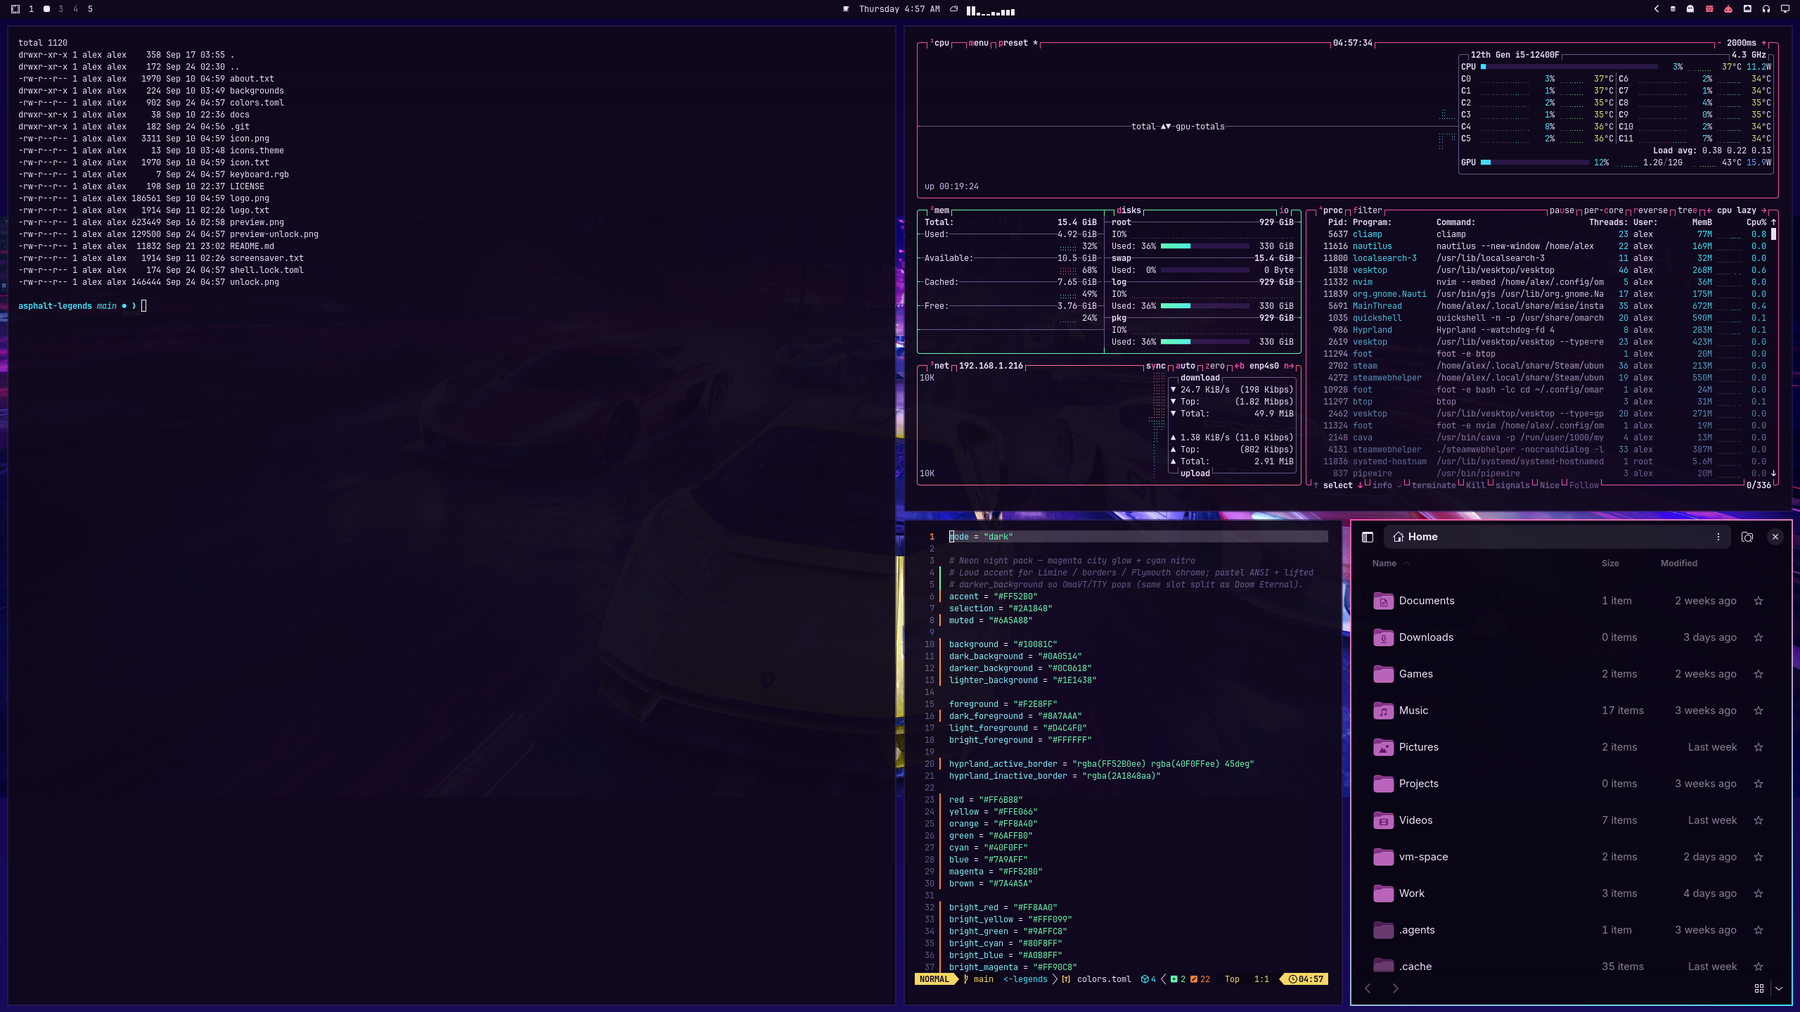
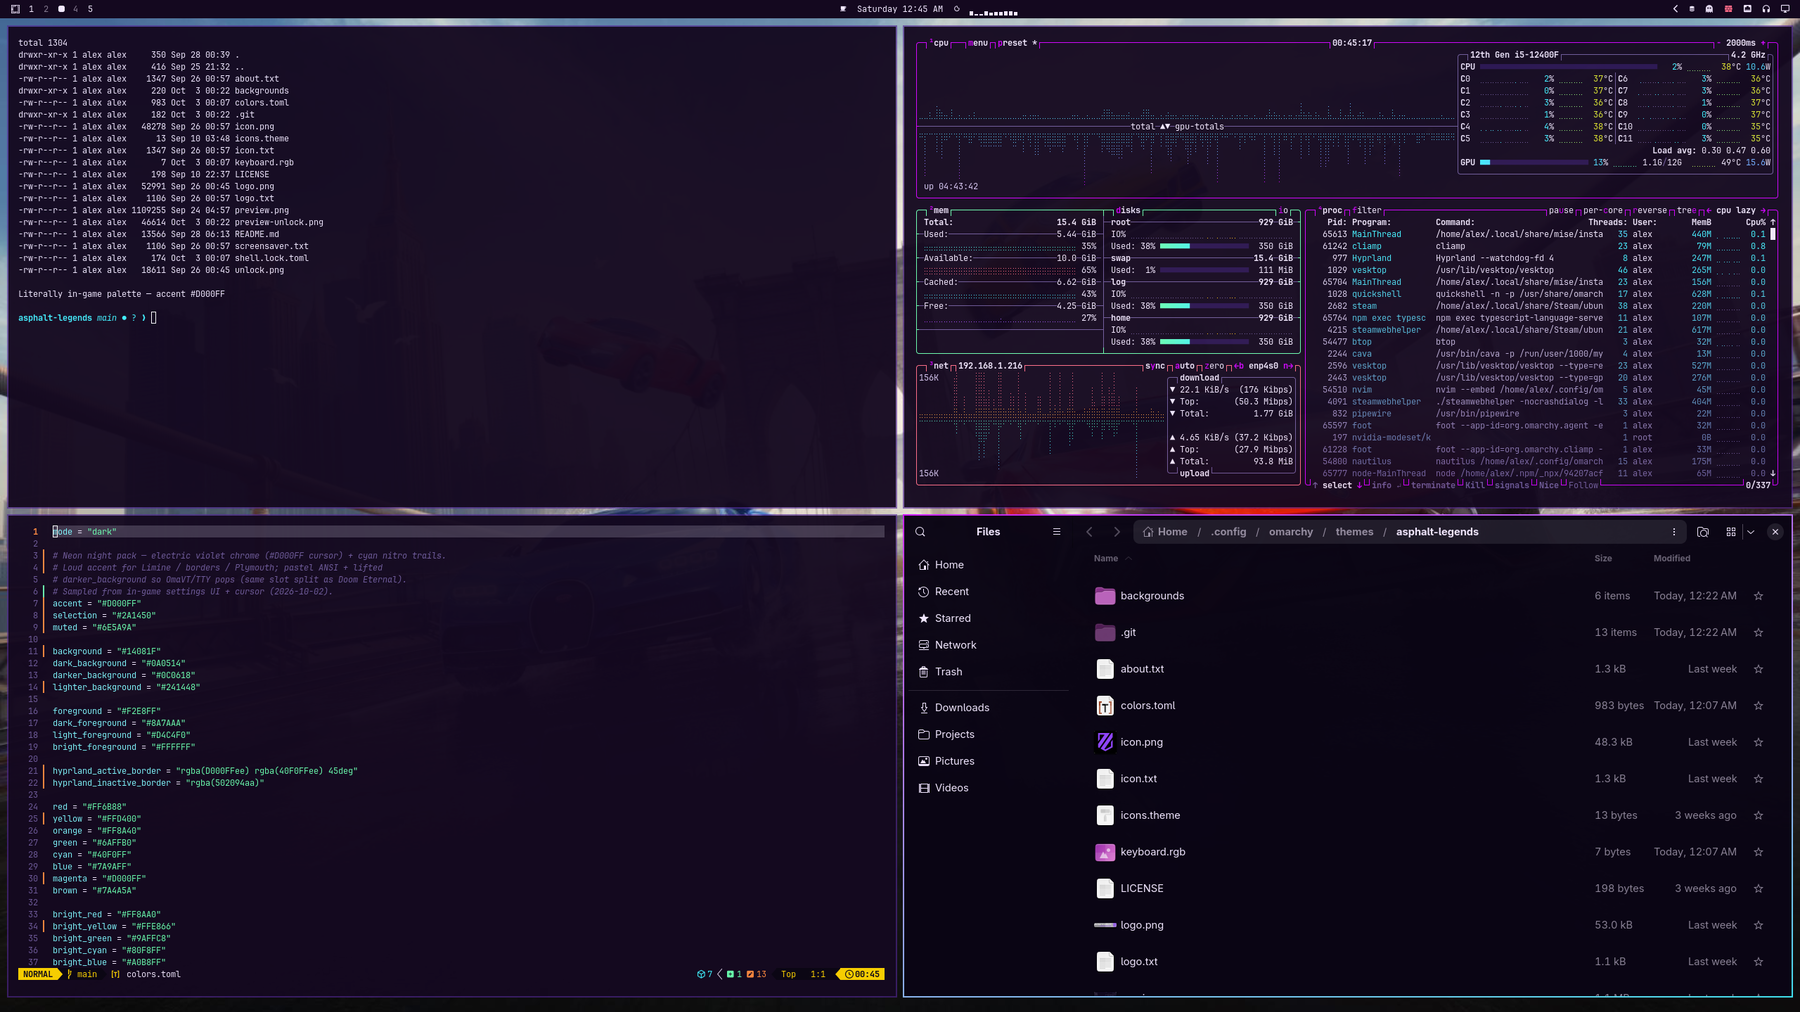
Refine Asphalt palette from in-game UI; swap Brooklyn wall for loading key art.
Sample cursor-literal #D000FF for borders/keyboard/ANSI magenta; use brand
#9246FF as toolkit accent so Qt/GTK fills stay readable. Document the split.

diff --git a/README.md b/README.md
@@ -2,15 +2,18 @@
 
 Remember the races? The hyprdrive? TouchDrive, even? Maybe not so much the
 microtransactions. What if your desktop felt like you’re quirk-screwing and
-nitro-boosting through that neon-drenched night pack — magenta city glow, cyan
-streaks, purple-black asphalt under the wheels — instead of another flat dark
-mode that could belong to anyone? Hyprland’s active border runs the same
-dual-accent trick as HEV, Galuga, CS, Cyber Shadow, Doom 2016, Eternal, Caged, KI, Rising, Stanley, SF6, T2D & USFIV:
-**magenta → cyan** at 45°.
+nitro-boosting through that neon-drenched night pack — in-game violet chrome
+(`#D000FF` cursor on borders / keyboard, brand `#9246FF` on toolkit accents),
+cyan nitro streaks, purple-black asphalt under the wheels — instead of another
+flat dark mode that could belong to anyone? Hyprland’s active border runs the
+same dual-accent trick as HEV, Galuga, CS, Cyber Shadow, Doom 2016, Eternal,
+Caged, KI, Rising, Stanley, SF6, T2D & USFIV: **violet → cyan** at 45°.
 
 Neon night-pack theme for [Omarchy](https://omarchy.org/). Inspired by the look
 of *Asphalt Legends* — **not affiliated with Gameloft** (see
-[Credits](#credits--legal-ish) below).
+[Credits](#credits--legal-ish) below). See
+[Closer than we started](#closer-than-we-started) for how the hexes were
+pulled and why `accent` is not a 1:1 cursor paste.
 
 <p align="center">
   <img src="logo.png" alt="Asphalt Legends wordmark used for unlock / README" width="520" />
@@ -232,12 +235,47 @@ Browse more on the [Omarchy Plugins](https://plugins.omarchy.org/) site.
 and similar “own paint engine / remote CSS” surfaces are out of scope on purpose
 — documented in Chroma’s README. Unthemed beats a half-assed chase.
 
+## Closer than we started
+
+Refine pass (2026-10): sample the live UI, then split loud chrome from filled
+toolkit accents so Qt menus / GTK selection fills stay readable at a glance.
+
+1. **Cursor-literal punch** — Settings + account-linking screenshots with the
+   in-game mouse cursor visible. Dominant neon pixel cluster lands on
+   `#D000FF` (old brand note `#C800FE`; logo “LEGENDS” stays softer on the
+   wordmark). Preview check: Omarchy/Adwaita pointer on top of the in-game
+   cursor — same hue, different shape. That hex stays on `magenta`,
+   `keyboard.rgb`, lock `border-active`, and the first stop of the Hyprland
+   dual border — places that are outlines / LEDs, not big text-on-fill
+   surfaces.
+2. **Toolkit `accent`** — Pure `#D000FF` as Chroma/Qt/GTK `accent` blows out
+   menu highlights and Disks partition selection (works if you squint, fails
+   at a glance). `accent` is therefore brand violet `#9246FF` (post-Unite
+   main) — same family as the cursor, closer than the old pink `#FF52B0`,
+   not a literal pixel paste into every filled control.
+3. **UI void** — Dark purple menu backgrounds (~`#180A2C`) and header bar
+   (~`#502094`) nudge `background` / `lighter_background` /
+   `hyprland_inactive_border`. Shop yellow `#FFD400` updates `yellow`.
+4. **Cyan nitro** — Keep electric `#40F0FF` as the second border stop (light
+   trails / neon pack), not the flatter currency-token azure.
+5. **Walls** — Empty Brooklyn POV wall swapped for Gameloft’s clean loading
+   **key art** (`backgrounds/3-bridge-keyart.jpg`, same composition as the
+   in-game loading screen, no player-ID / ratings chrome). Coastal ram stays
+   as `#4`. Freecam race shots skipped — Asphalt watermarks the freecam view.
+6. **Unlock mock** — `preview-unlock.png` regenerated the usual Omarchy way:
+   `background` + `foreground` Plymouth assets composited with site
+   `unlock.png` (pass field is foreground, not accent — matches real
+   `omarchy-plymouth-set`).
+
+Race freecam is a no-go for walls while the watermark is there; menu / loading
+/ official CDN art is the clean lane.
+
 ## Taste
 
-Colours and contrast are tuned for what I like to look at. If they feel loud or
-wrong for you, fork and retune `colors.toml` without guilt. (Console font sizing
-for low vision lives in [OmaTTY](https://github.com/AlxWolfenstein97/omatty), not
-this theme.)
+Anchored on in-game samples, then tuned so filled accents don’t eat labels.
+If they feel loud or wrong for you, fork and retune `colors.toml` without
+guilt. (Console font sizing for low vision lives in
+[OmaTTY](https://github.com/AlxWolfenstein97/omatty), not this theme.)
 
 ## Credits / legal-ish
 
@@ -247,6 +285,10 @@ this theme.)
   no money, no official product.
 - Official site wordmark ([asphaltlegends.com](https://asphaltlegends.com/))
   supplies `unlock.png` / `logo.png` / Plymouth preview.
+- Loading key art wall from the official site CDN
+  (`Banner_Key_Art_Shadow` on `asphalt9.assets.gameloft.com`).
+- Palette refine sampled from local in-game Settings / Gameloft Connect UI
+  screenshots (cursor + chrome), not from a third-party theme pack.
 - If Gameloft hates this existing, they can say so and I’ll deal with the repo
   accordingly.
 - Theming extenders grew out of time on Archinstall + Hyprland +
